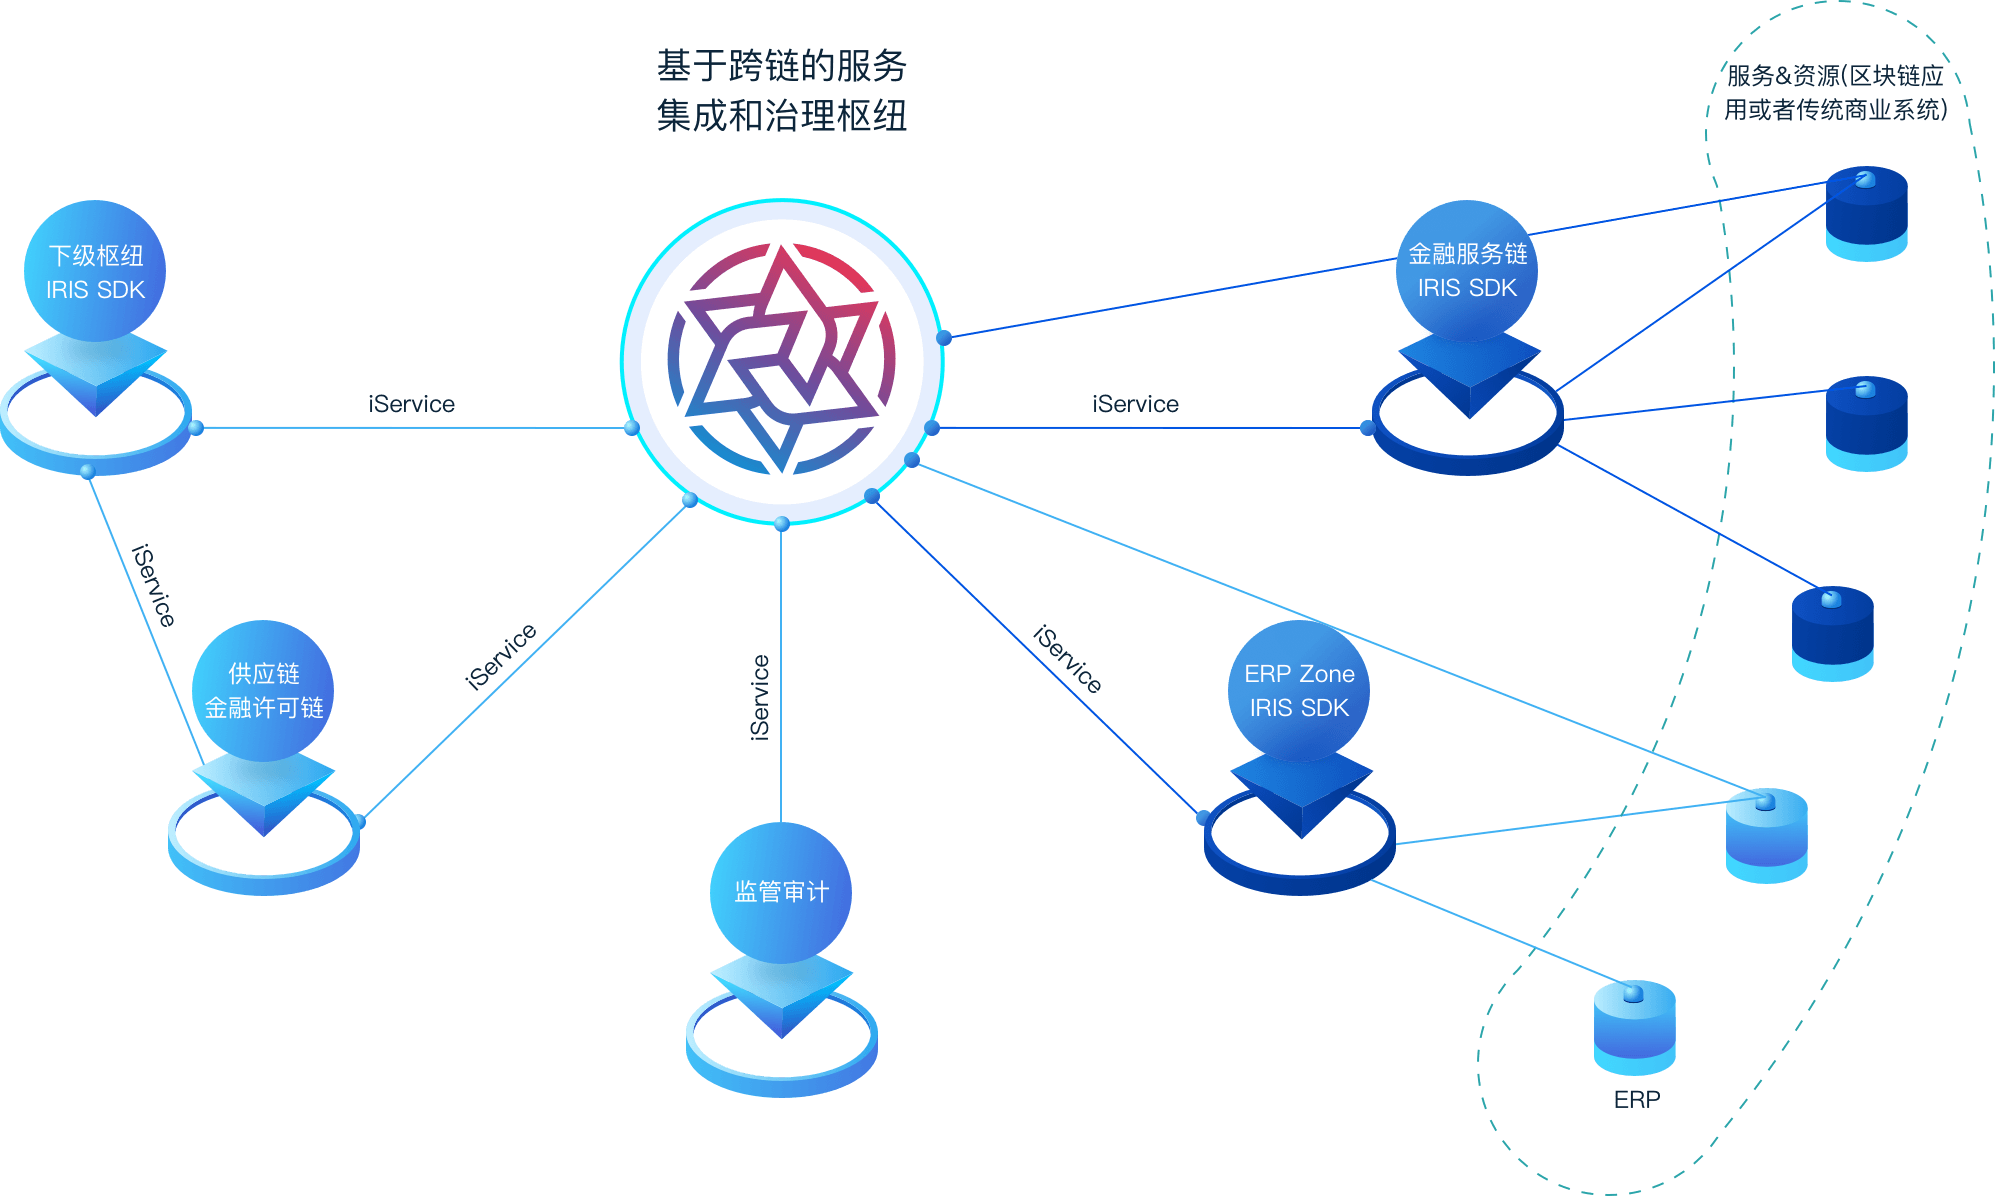
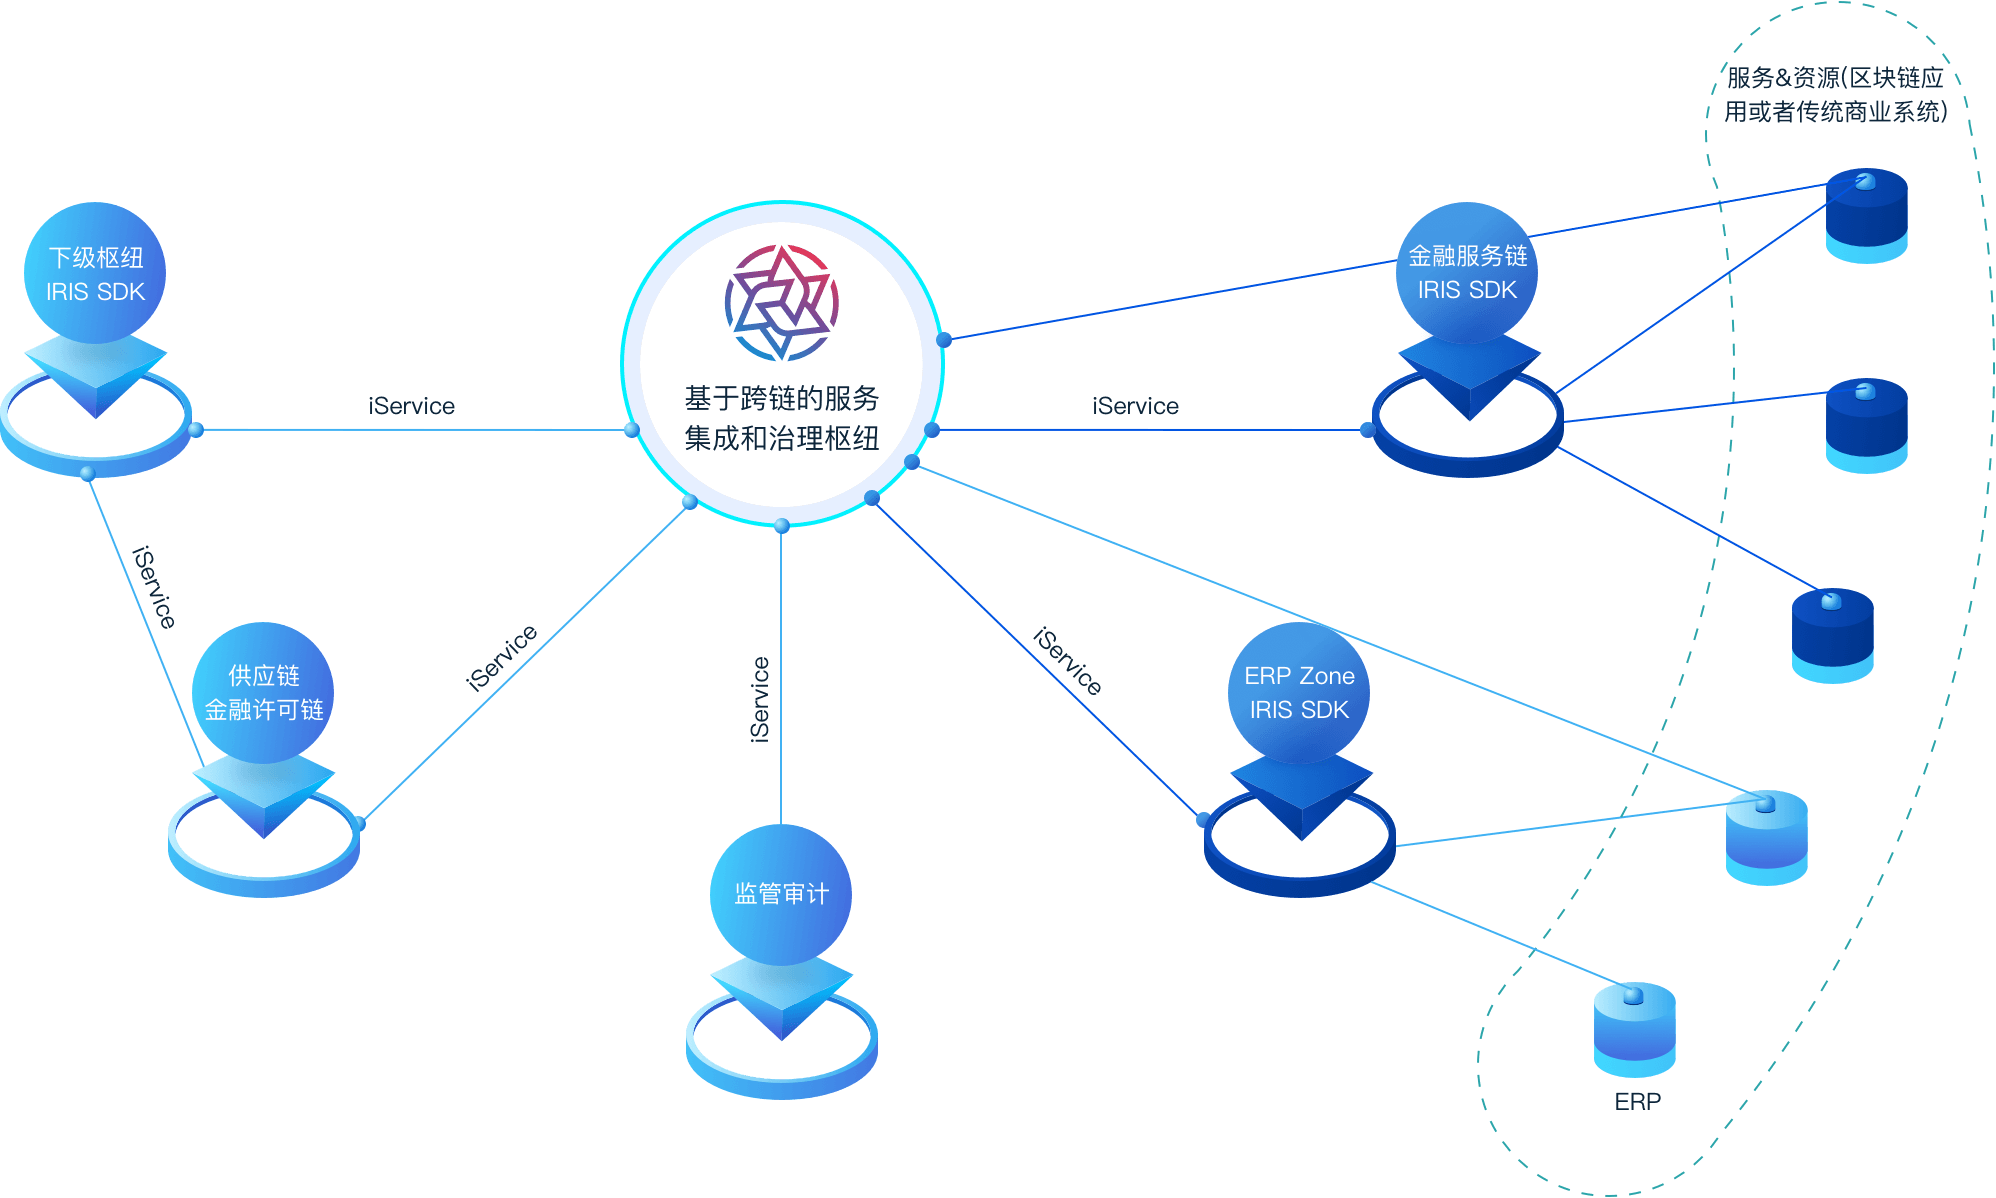
update isch image

diff --git a/src/components/ProductionIsch.vue b/src/components/ProductionIsch.vue
@@ -14,10 +14,10 @@
 			</div>
 
 		</div>
-<!--		<p class="production_isch_title">跨链服务联盟</p>-->
-<!--		<div class="isch_img_wrap">-->
-<!--			<img src="../assets/home/isch.png" alt="">-->
-<!--		</div>-->
+		<p class="production_isch_title">跨链服务联盟</p>
+		<div class="isch_img_wrap">
+			<img src="../assets/home/isch.png" alt="">
+		</div>
 	</div>
 </template>
 
